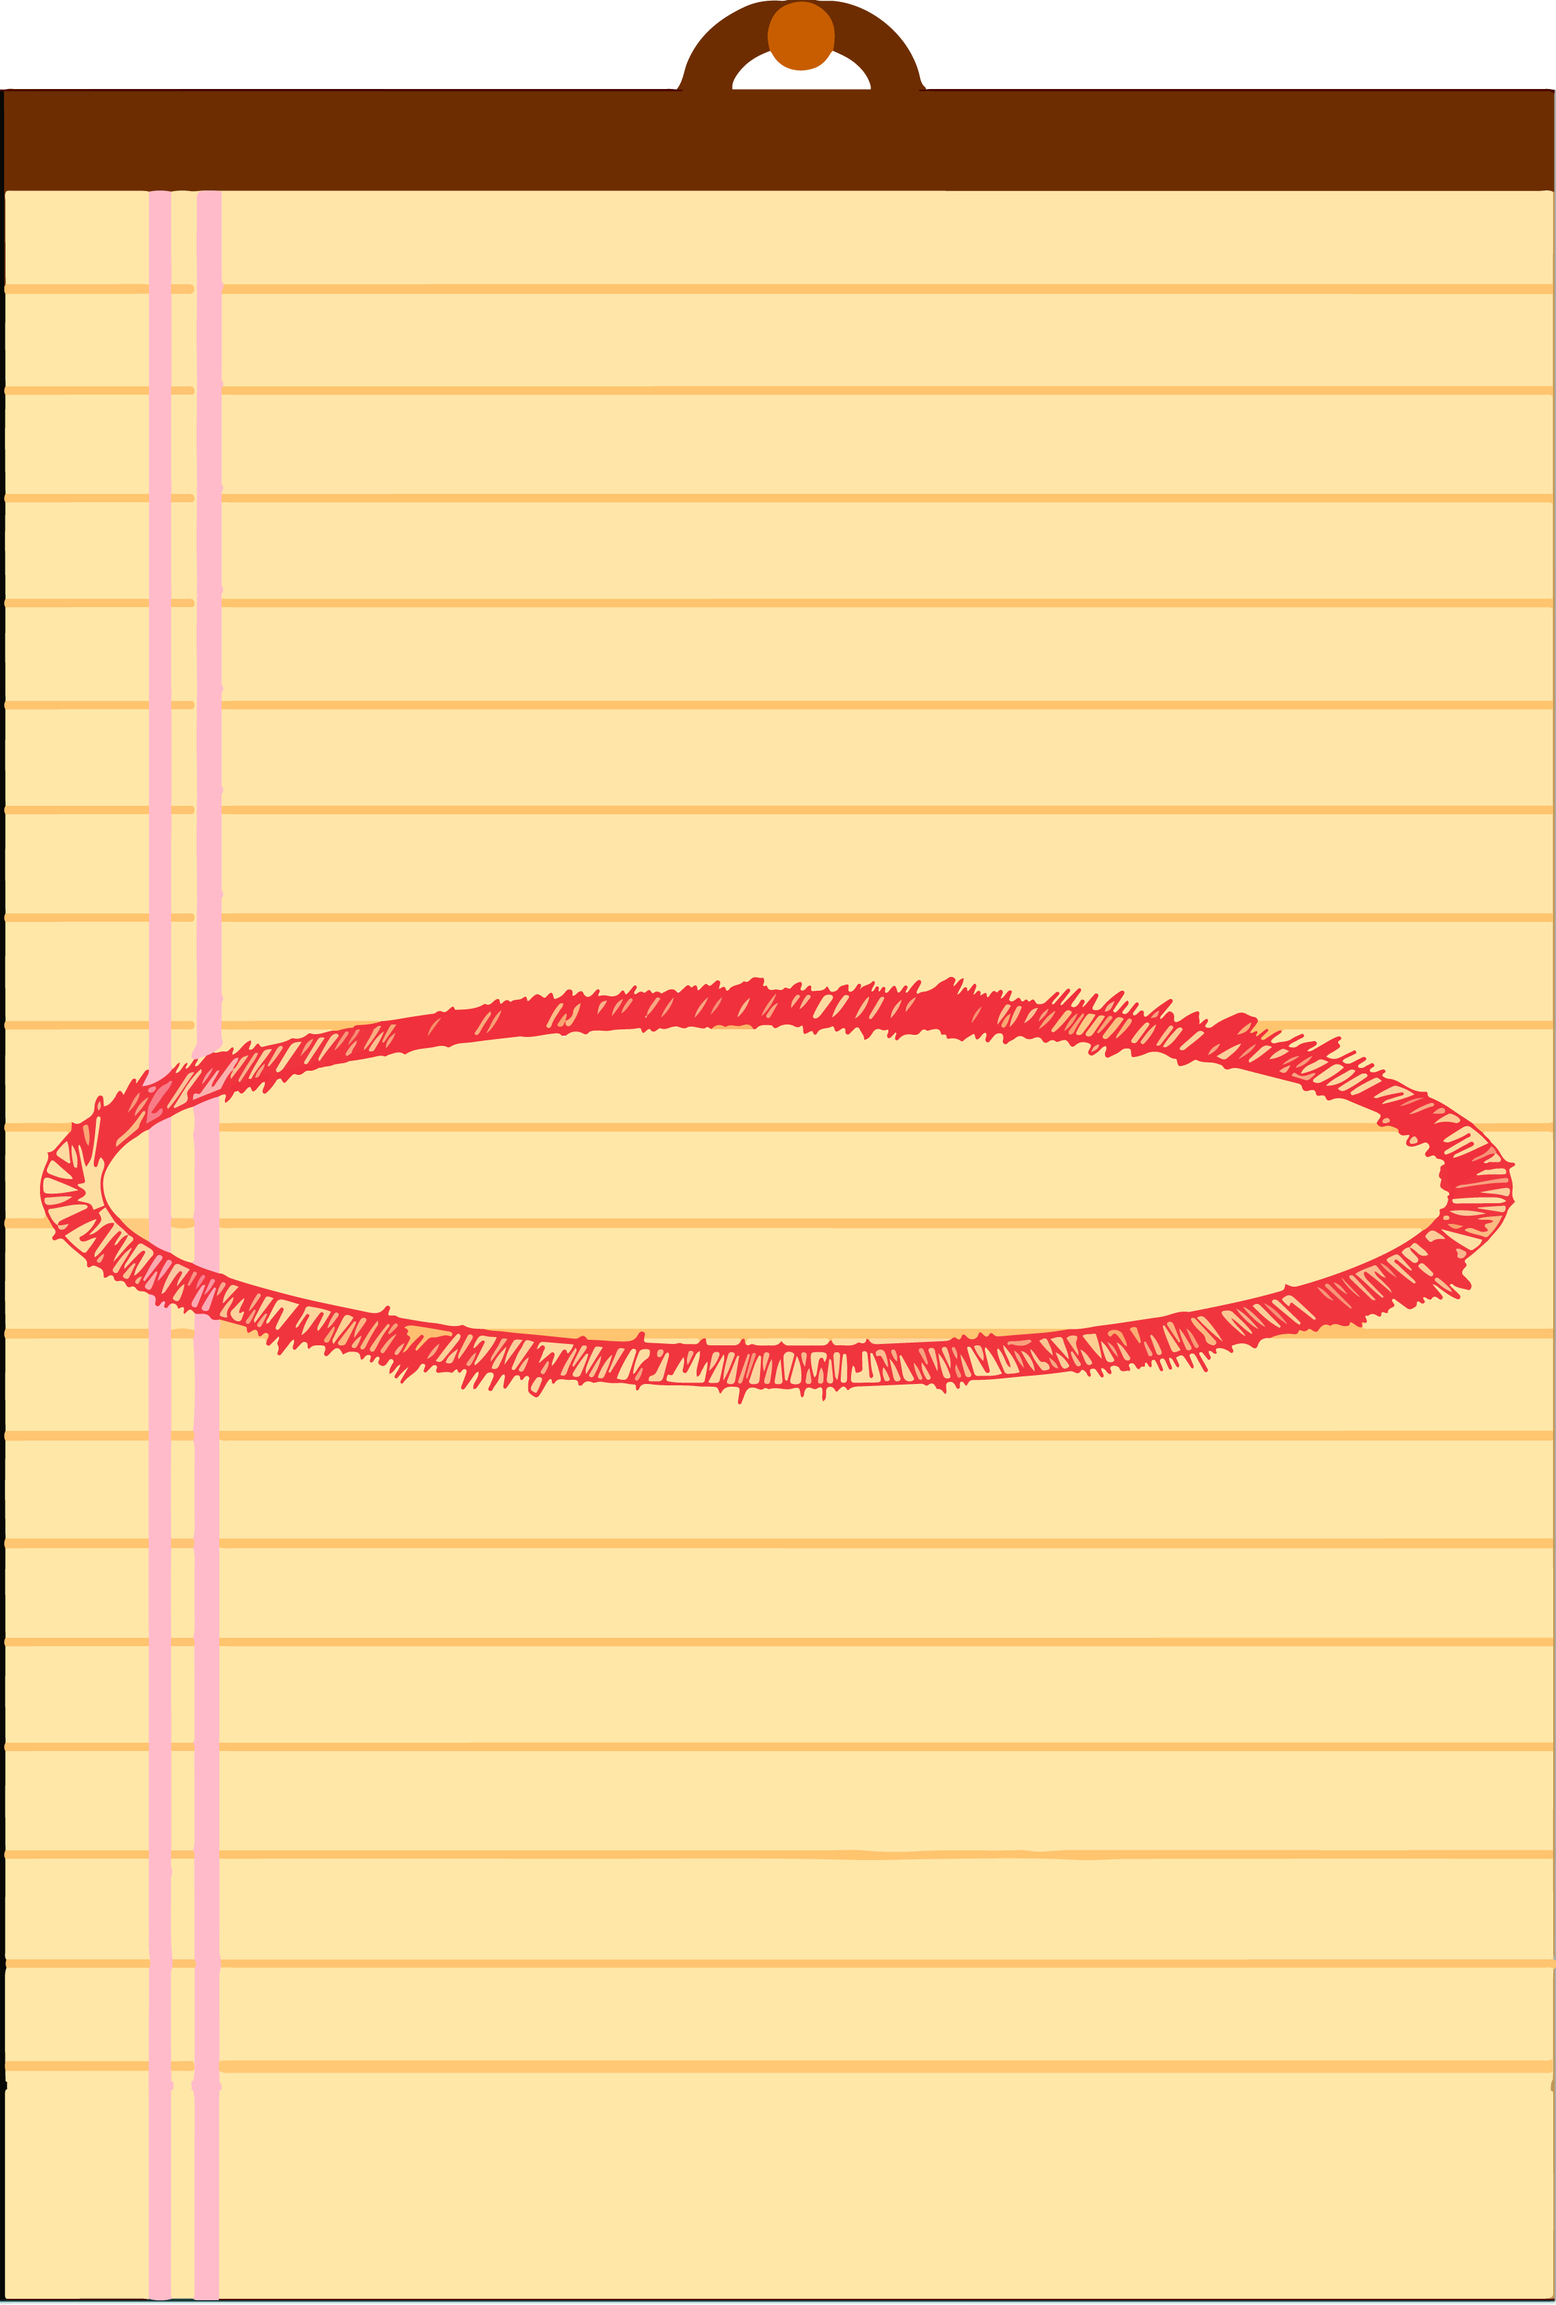
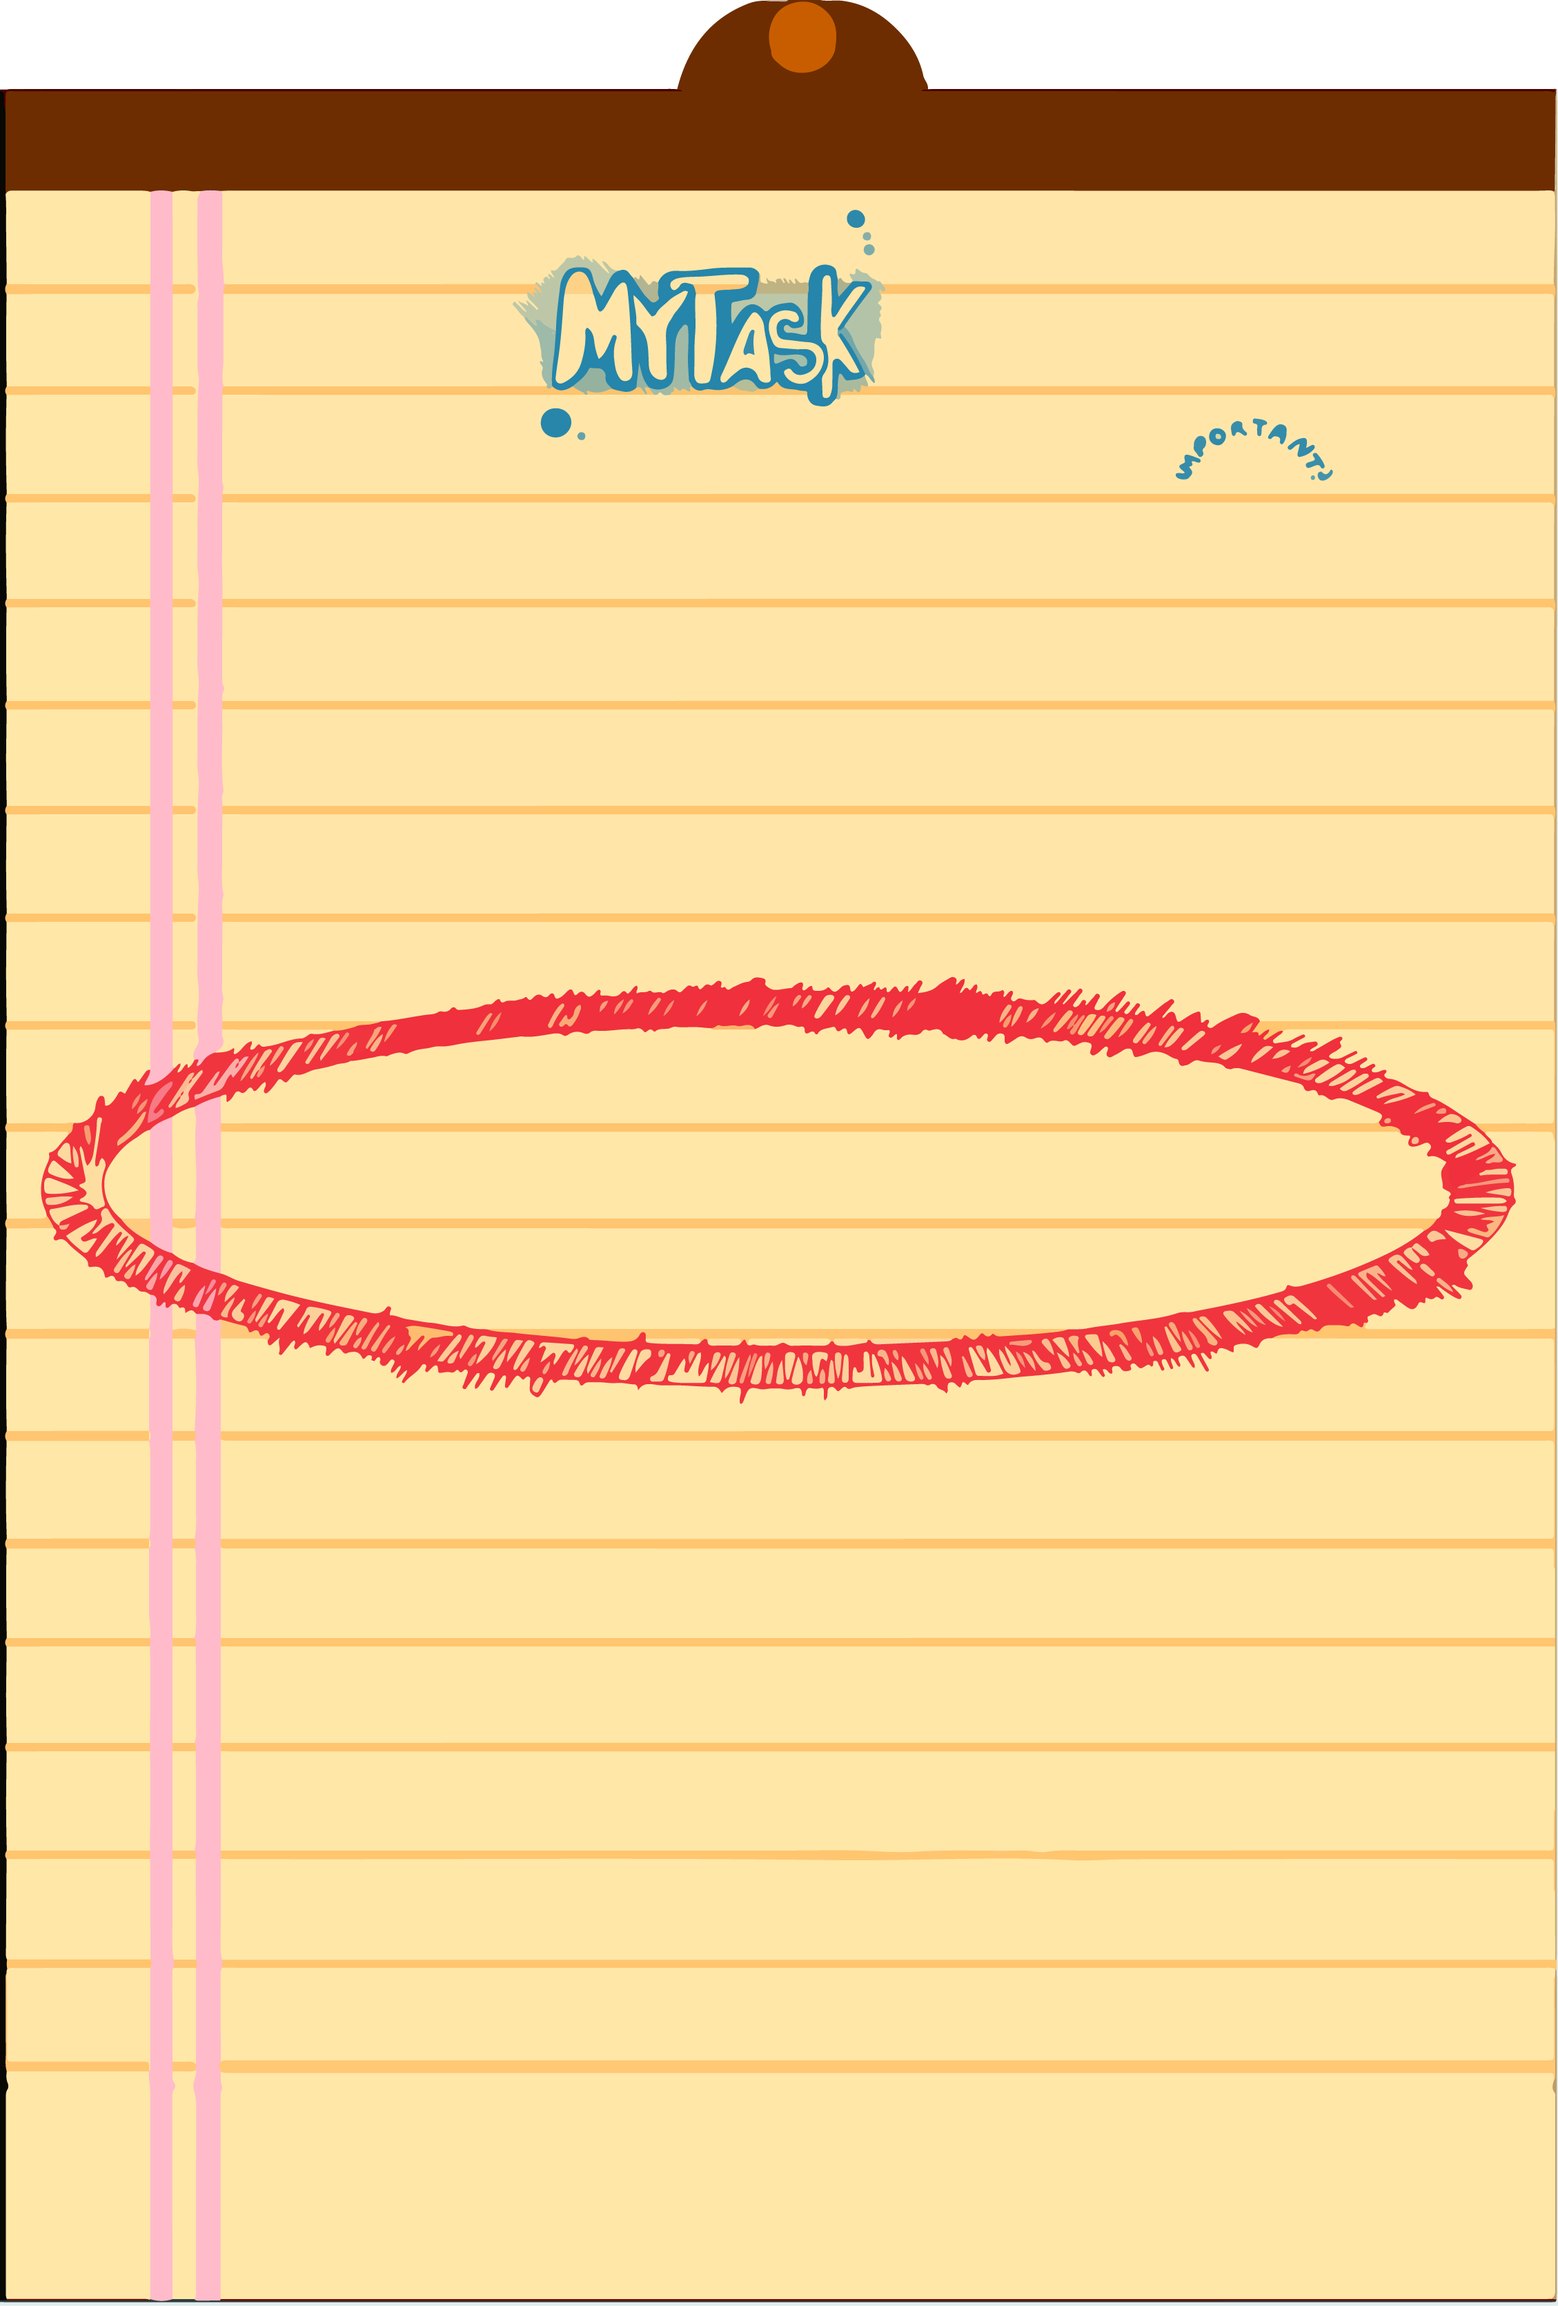
save

diff --git a/public/index.html b/public/index.html
@@ -14,7 +14,7 @@
       href="https://fonts.googleapis.com/css?family=Permanent+Marker&display=swap"
       rel="stylesheet"
     />
-    <title>React App</title>
+    <title>MyTask App</title>
   </head>
   <body>
     <div id="root"></div>
